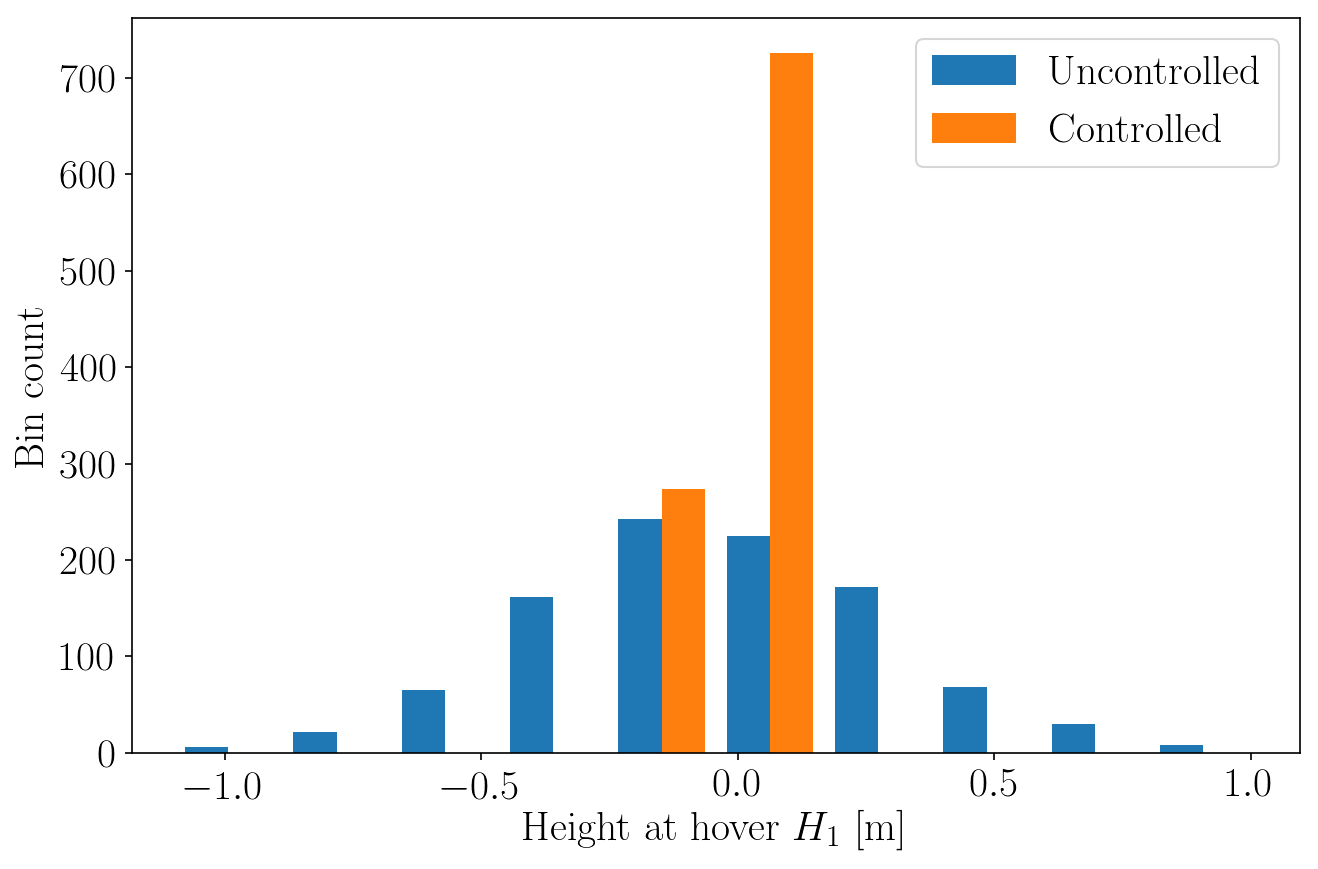
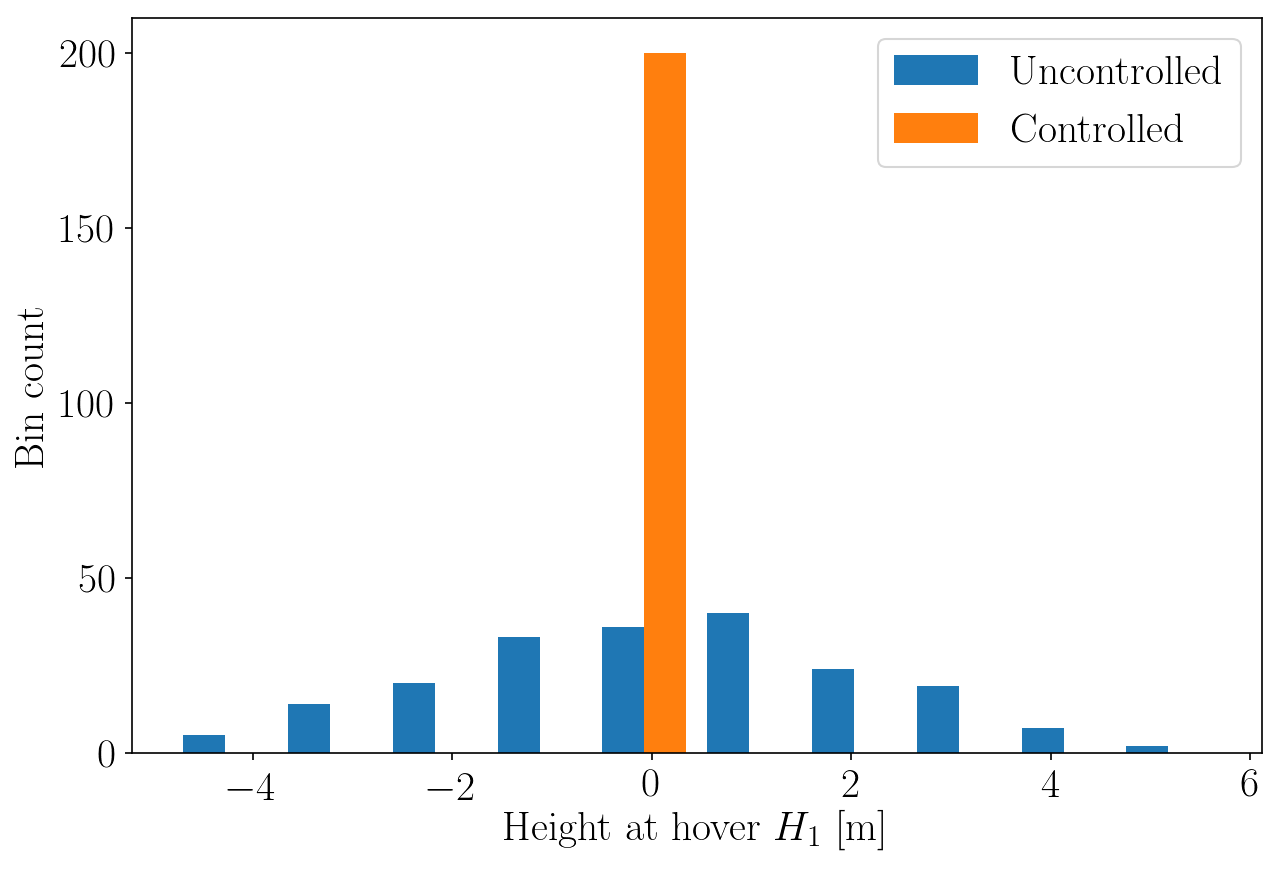
Final version of code for presentation. - Removed old files - Updated rocket.py parameters to Falcon 9 public speculations

diff --git a/explore_initial_height.py b/explore_initial_height.py
@@ -56,7 +56,7 @@ def simulateForHeight(rocket,H_1):
                       t_span = (0,t_f),
                       y0 = x_0,
                       events = [rocket.burnEvent,rocket.ascentEvent],
-                      max_step = 0.001)
+                      max_step = 0.01)
     
     # Extract simulation results
     t = state.t
@@ -71,7 +71,7 @@ def simulateForHeight(rocket,H_1):
     
     return fuel_used,burn_thrust,burn_time,time_history,height_history
 
-burn_start_heights = np.linspace(100,300,20)
+burn_start_heights = np.linspace(5e3,24e3,20)
 fuel_used,burn_thrust,burn_time,sim_time,sim_height = [],[],[],[],[]
 for i in progressbar.progressbar(range(len(burn_start_heights)), widgets=pb_widgets):
     rocket = Rocket(noisy=False,controlled=False)
@@ -108,14 +108,18 @@ ax1.spines['right'].set_color(colors[1])
 ax1.spines['left'].set_color(colors[0]) 
 ax1.tick_params(axis='y', colors=colors[0])
 ax1.yaxis.label.set_color(colors[0])
+ax1.set_xlabel('Burn start height $H_1$ [m]')
 ax2 = fig.add_subplot(111, sharex=ax1, frameon=False)
 ax2.plot(burn_start_heights,np.array(burn_thrust)/1e3,color=colors[1])
 ax2.yaxis.tick_right()
 ax2.yaxis.set_label_position("right")
 ax2.tick_params(axis='y', colors=colors[1])
 ax2.yaxis.label.set_color(colors[1])
+plt.axhline(y=rocket.T_1eng_max/1e3, color='gray',linestyle='--')
+plt.axhline(y=3*rocket.T_1eng_max/1e3, color='gray',linestyle='--')
+ax2.text(burn_start_heights[0]*1.05,rocket.T_1eng_max/1e3*1.06,'1 engine',color='gray')
+ax2.text(burn_start_heights[0]*1.05,3*rocket.T_1eng_max/1e3*0.94,'3 engines',color='gray')
 ax2.set_ylabel('Thrust $T$ [kN]')
-ax1.set_xlabel('Burn start height $H_1$ [m]')
 plt.autoscale(tight=True)
 plt.tight_layout()
 plt.show()
@@ -131,6 +135,7 @@ ax1.spines['right'].set_color(colors[1])
 ax1.spines['left'].set_color(colors[0]) 
 ax1.tick_params(axis='y', colors=colors[0])
 ax1.yaxis.label.set_color(colors[0])
+ax1.set_xlabel('Burn start height $H_1$ [m]')
 ax2 = fig.add_subplot(111, sharex=ax1, frameon=False)
 ax2.plot(burn_start_heights,np.array(burn_thrust)/1e3,color=colors[1])
 ax2.yaxis.tick_right()
@@ -138,7 +143,10 @@ ax2.yaxis.set_label_position("right")
 ax2.tick_params(axis='y', colors=colors[1])
 ax2.yaxis.label.set_color(colors[1])
 ax2.set_ylabel('Thrust $T$ [kN]')
-ax1.set_xlabel('Burn start height $H_1$ [m]')
+plt.axhline(y=rocket.T_1eng_max/1e3, color='gray',linestyle='--')
+plt.axhline(y=3*rocket.T_1eng_max/1e3, color='gray',linestyle='--')
+ax2.text(burn_start_heights[0]*1.05,rocket.T_1eng_max/1e3*1.06,'1 engine',color='gray')
+ax2.text(burn_start_heights[0]*1.05,3*rocket.T_1eng_max/1e3*0.94,'3 engines',color='gray')
 plt.autoscale(tight=True)
 plt.tight_layout()
 plt.show()

diff --git a/rocket.py b/rocket.py
@@ -23,10 +23,11 @@ class Rocket:
         self.g = 9.81 # [m/s^2] Acceleration due to gravity
         
         # Rocket parameters
-        self.m_0 = 1905. # [kg] Initial mass
-        self.H_0 = 300. # [m] Initial height
-        self.v_0 = 100. # [m/s] Initial velocity
-        self.I_sp = 225 # [s] Rocket engine specific impulse
+        self.m_0 = 26e3 # [kg] Initial mass
+        self.H_0 = 25e3 # [m] Initial height
+        self.v_0 = 800. # [m/s] Initial velocity
+        self.I_sp = 282. # [s] Rocket engine specific impulse
+        self.T_1eng_max = 845e3 # [N] Maximum thrust of one rocket engine (Merlin 1D)
 
         self.noisy = noisy
         if self.noisy:

diff --git a/explore_control.py b/explore_control.py
@@ -36,7 +36,7 @@ def simulate(rocket):
     final_height : float
         The height at which the rocket began ascending (i.e. the hover height).
     """
-    rocket.setLandingBurnStartHeight(150.)
+    rocket.setLandingBurnStartHeight(20e3)
     
     # Simulate the dynamics
     t_f = 100.
@@ -57,7 +57,7 @@ def simulate(rocket):
     
     return final_height
 
-trial_count = 1000
+trial_count = 200
 final_height_without_control, final_height_with_control = [], []
 for _ in progressbar.progressbar(range(trial_count), widgets=pb_widgets):
     rocket_without_control = Rocket(noisy=True,controlled=False)

diff --git a/README.md b/README.md
@@ -9,5 +9,3 @@ at Ecolint. You can run:
 - `explore_control.py`: analyzes the effect of using feedback control on the
   soft touchdown accuracy when there is noise in the thrust generated by the
   rocket engine.
-  
-Some MATLAB and Simulink files are left over, but their are "useless".
